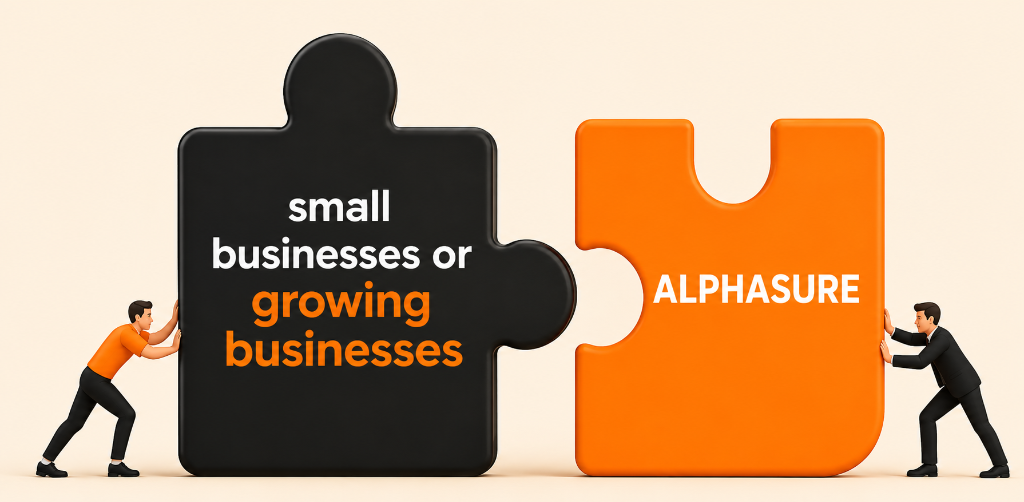
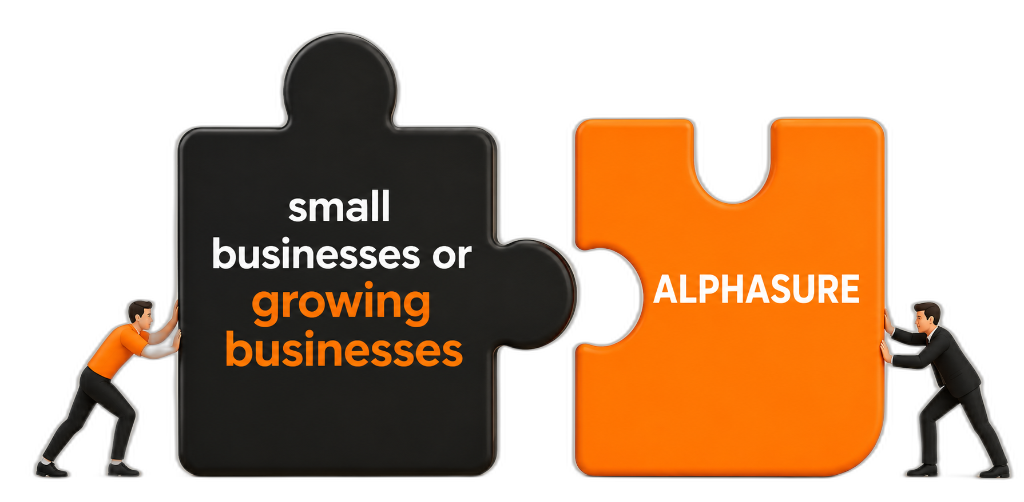
feat: make 3D puzzle graphic background transparent and blend seamlessly into canvas

diff --git a/src/components/PuzzleSection.jsx b/src/components/PuzzleSection.jsx
@@ -45,17 +45,15 @@ export default function PuzzleSection() {
             </p>
           </div>
 
-          {/* RIGHT COLUMN: 3D Puzzle Solution Graphic */}
+          {/* RIGHT COLUMN: 3D Puzzle Solution Graphic (Transparent Background) */}
           <div className="lg:col-span-6 flex justify-center lg:justify-end items-center relative">
-            <div className="relative z-10 w-full flex justify-center lg:justify-end transition-transform duration-500 hover:scale-[1.015]">
-              <div className="relative rounded-2xl sm:rounded-3xl overflow-hidden shadow-[0_20px_50px_rgba(11,25,44,0.1)] border border-slate-100 max-w-[620px] lg:max-w-[660px] w-full bg-[#FDF0DF]">
-                <img
-                  src="/images/puzzle-alphasure-solution.png"
-                  alt="A complete accounting solution - Small businesses or growing businesses fit with Alphasure"
-                  className="w-full h-auto object-cover block"
-                  loading="eager"
-                />
-              </div>
+            <div className="relative z-10 w-full flex justify-center lg:justify-end transition-transform duration-500 hover:scale-[1.02]">
+              <img
+                src="/images/puzzle-alphasure-solution.png"
+                alt="A complete accounting solution - Small businesses or growing businesses fit with Alphasure"
+                className="w-full h-auto max-w-[580px] lg:max-w-[640px] xl:max-w-[680px] object-contain block filter drop-shadow-[0_16px_32px_rgba(11,25,44,0.1)]"
+                loading="eager"
+              />
             </div>
           </div>
 
